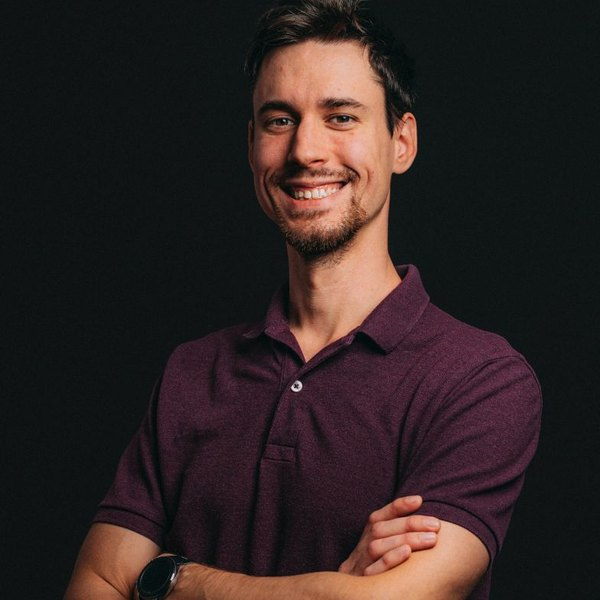
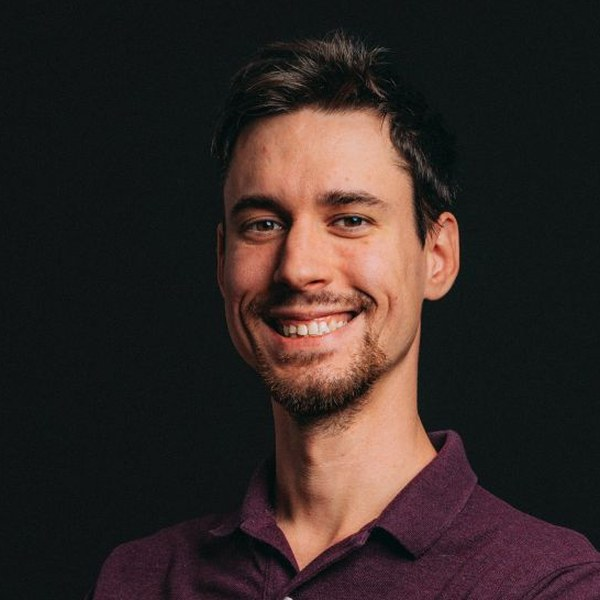
2

diff --git a/style.css b/style.css
@@ -249,16 +249,18 @@ section:nth-child(2n) {
 }
 
 .hero h1 {
-    font-size: 3.8em;
-    margin: 0 0 20px 0;
+    font-size: clamp(2rem, 1.1rem + 3.5vw, 3.8rem) !important;
+    line-height: 1.18;
+    margin: 0 0 18px 0;
     color: var(--white);
     text-shadow: 0 2px 14px rgba(0, 0, 0, 0.45);
 }
 
 .hero p {
-    font-size: 1.6em;
+    font-size: clamp(1rem, 0.85rem + 1vw, 1.6rem);
+    line-height: 1.55;
     font-weight: 300;
-    max-width: 900px;
+    max-width: 620px;
     margin: 0;
     opacity: 0.95;
     line-height: 1.5;
@@ -1294,18 +1296,7 @@ footer {
     }
 
     .hero h1 {
-        font-size: 2.1em !important;
-        line-height: 1.2;
         margin-bottom: 14px;
-    }
-
-    .hero p {
-        font-size: 1em;
-        line-height: 1.6;
-    }
-
-    .hero-br {
-        display: none;
     }
 
     .hero-underline {

diff --git a/index-en.html b/index-en.html
@@ -74,9 +74,9 @@
     <header class="hero">
         <div class="container">
             <h1>Attorney for the New Era with&nbsp;AI</h1>
-            <p>I help business owners run their companies without legal chaos.<br class="hero-br">
-                Clearly, without thirty pages of legalese — and with the certainty<br class="hero-br">
-                that your data and know-how stay safe.</p>
+            <p>I help business owners run their companies without legal chaos. Clearly,
+                without thirty pages of legalese — and with the certainty that your data
+                and know-how stay safe.</p>
             <span class="hero-underline"></span>
             <a href="#propojit" class="cta-button">Free Initial Consultation</a>
         </div>

diff --git a/index.html b/index.html
@@ -74,9 +74,9 @@
     <header class="hero">
         <div class="container">
             <h1>Advokát pro novou dobu s&nbsp;AI</h1>
-            <p>Pomáhám majitelům firem podnikat bez právního chaosu.<br class="hero-br">
-                Srozumitelně, bez třiceti stran paragrafů — a s jistotou,<br class="hero-br">
-                že vaše data a firemní know-how zůstanou v bezpečí.</p>
+            <p>Pomáhám majitelům firem podnikat bez právního chaosu. Srozumitelně, bez
+                třiceti stran paragrafů — a s jistotou, že vaše data a firemní know-how
+                zůstanou v bezpečí.</p>
             <span class="hero-underline"></span>
             <a href="#propojit" class="cta-button">Nezávazná konzultace</a>
         </div>